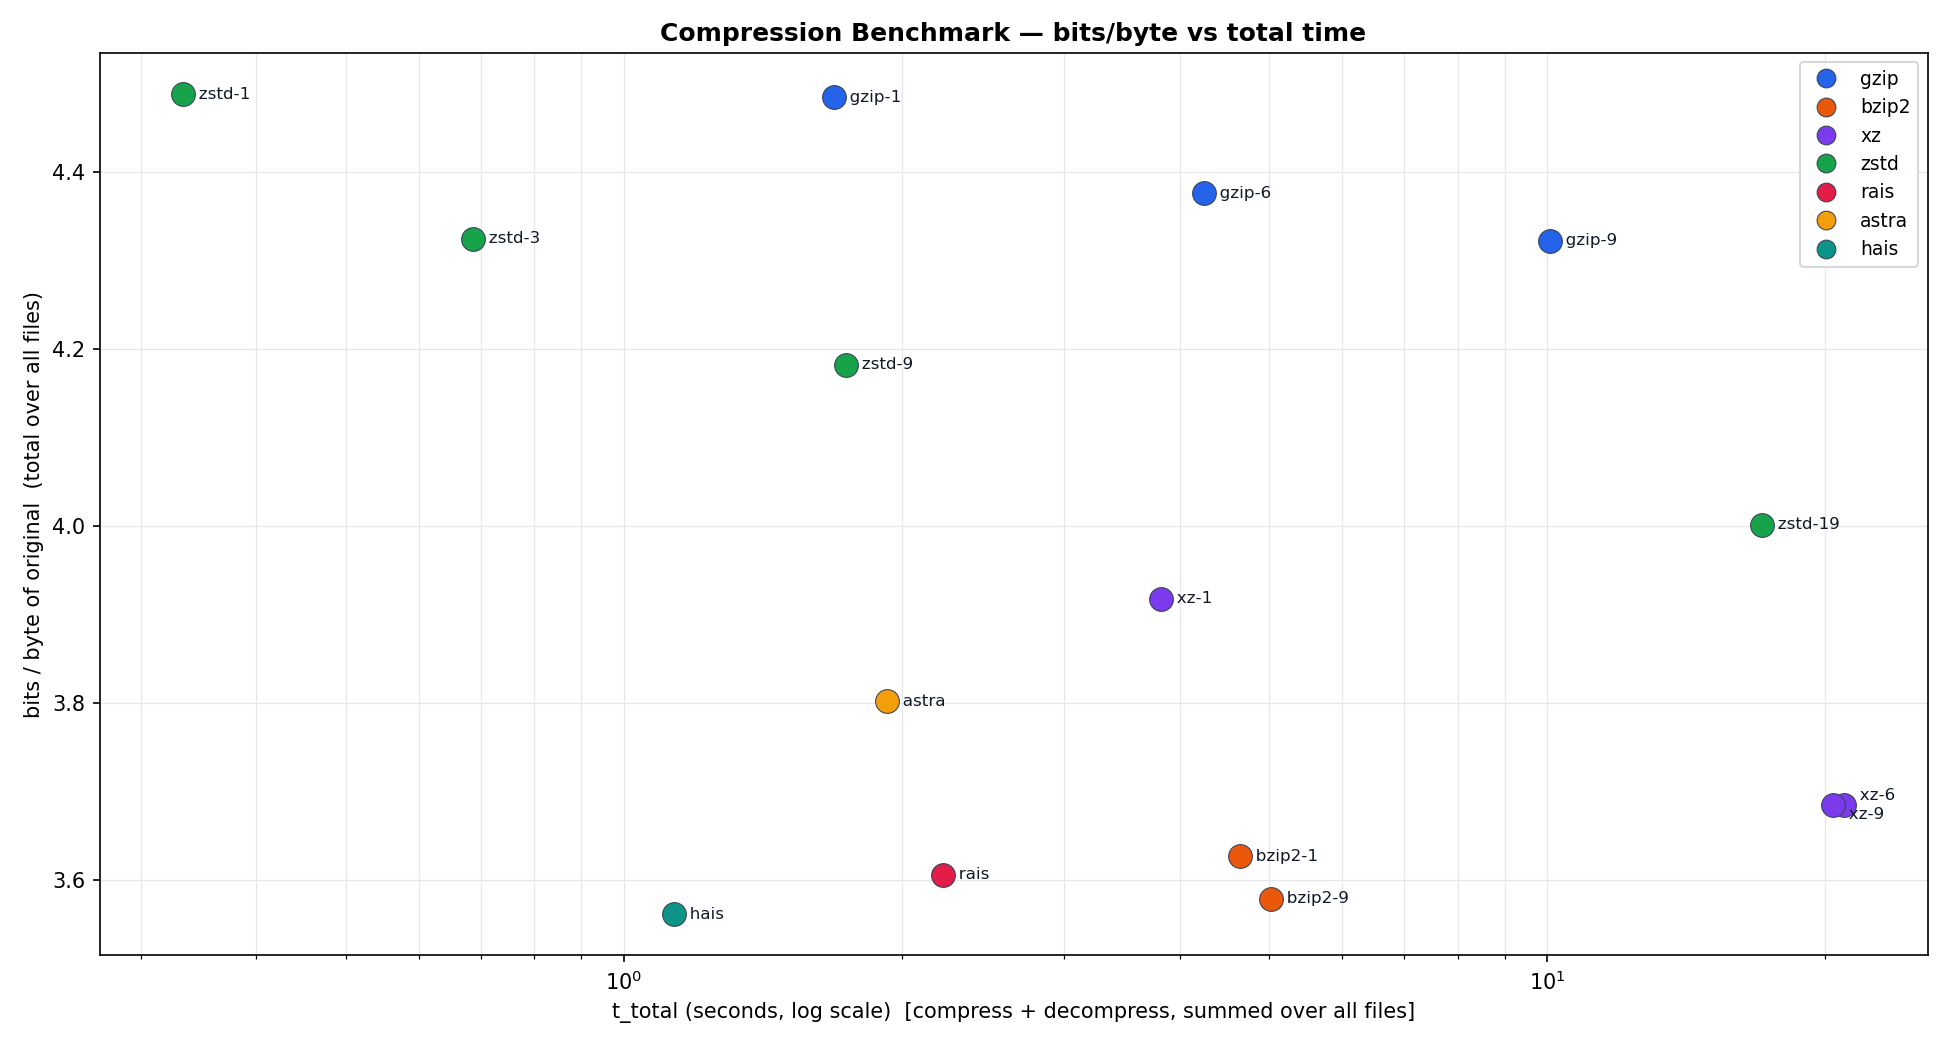
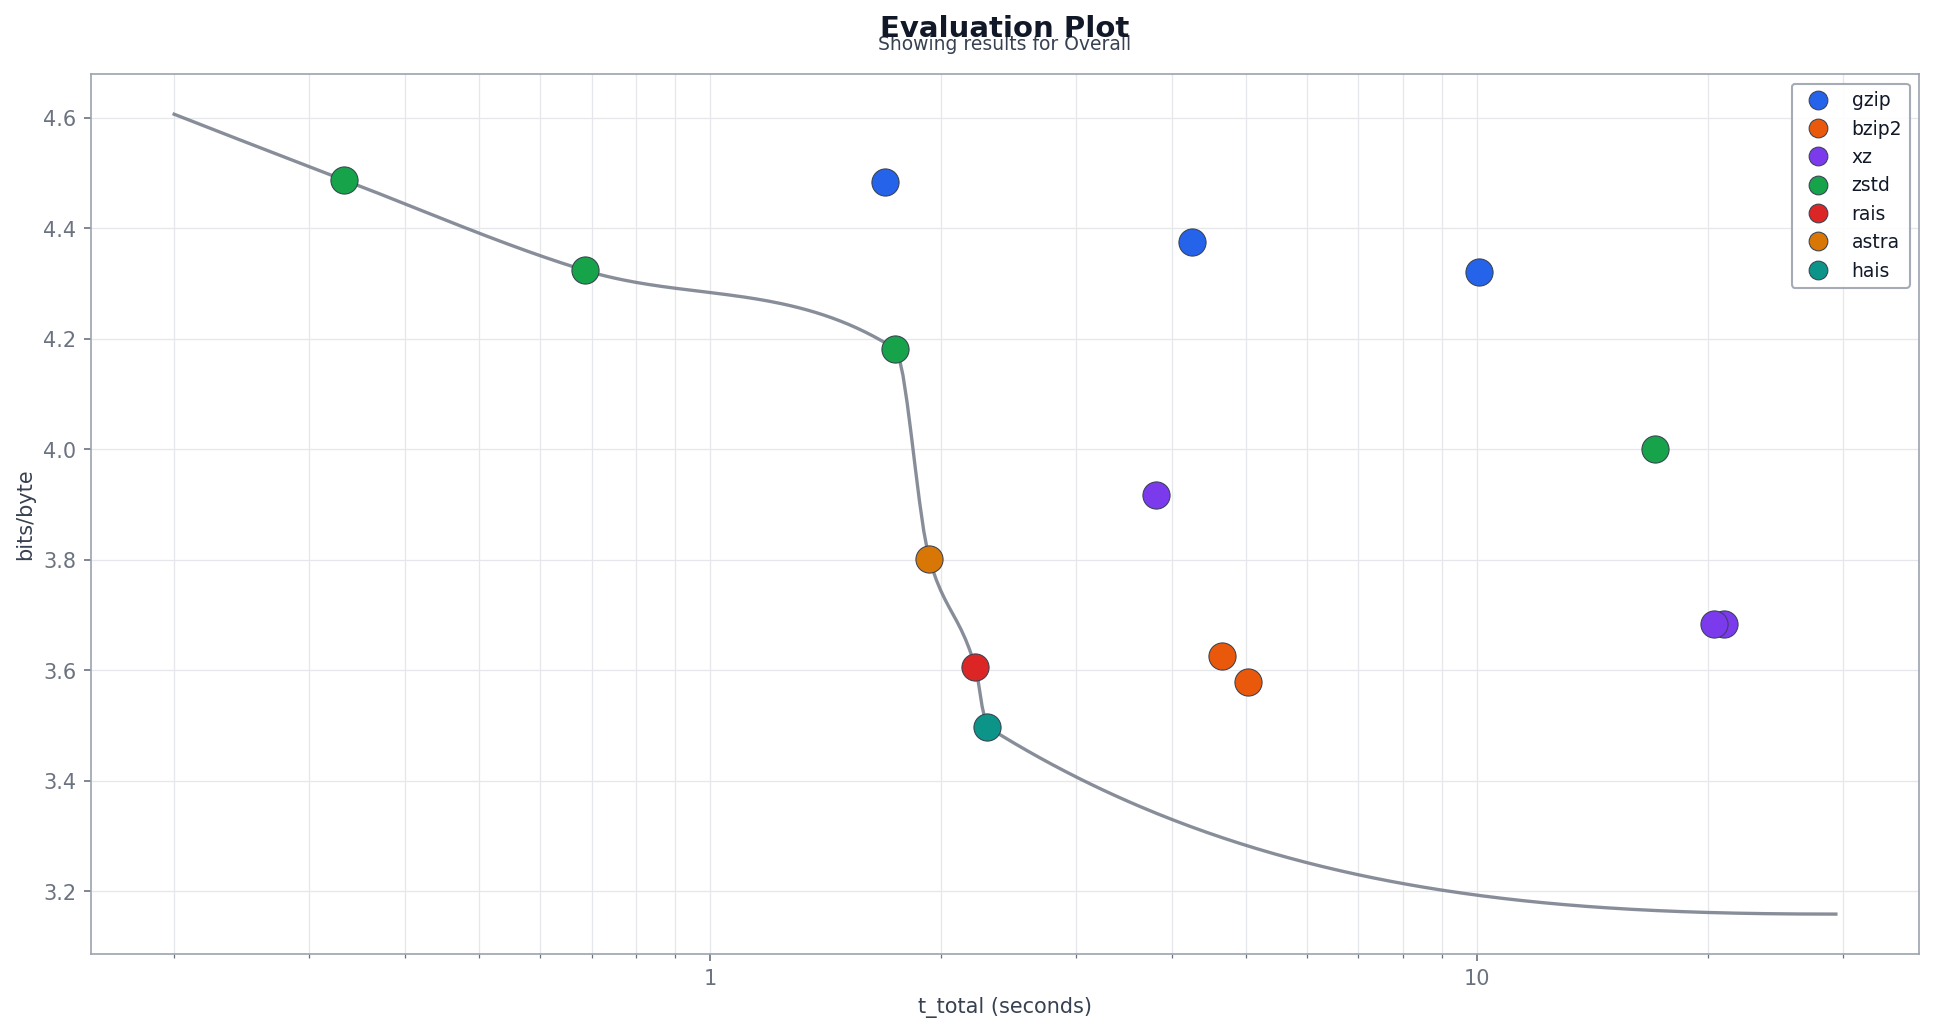
plot updat

diff --git a/benchmark/plot.py b/benchmark/plot.py
@@ -1,32 +1,27 @@
 #!/usr/bin/env python3
 """
-Plot compression benchmark results.
+Plot compression benchmark results — dark theme, Pareto frontier curve.
 
 Usage:
     python plot.py [results.csv]
-
-Produces a scatter plot of bits/byte vs total time (compress + decompress),
-one point per compressor (averaged over all files).
 """
 
 import sys
 import numpy as np
 import pandas as pd
 import matplotlib.pyplot as plt
+import matplotlib.ticker as ticker
+from scipy.interpolate import PchipInterpolator
 
 CSV = sys.argv[1] if len(sys.argv) > 1 else "results.csv"
 
 df = pd.read_csv(CSV)
 df = df[df["lossless"] == True].copy()
-
 df["t_total_s"] = (df["compress_ms"] + df["decompress_ms"]) / 1000.0
 
 agg = (
     df.groupby("compressor")
-    .agg(
-        bits_per_byte=("bpp", "mean"),
-        t_total_s=("t_total_s", "sum"),
-    )
+    .agg(bits_per_byte=("bpp", "mean"), t_total_s=("t_total_s", "sum"))
     .reset_index()
 )
 
@@ -35,8 +30,8 @@ FAMILY_COLORS = {
     "bzip2": "#ea580c",
     "xz":    "#7c3aed",
     "zstd":  "#16a34a",
-    "rais":  "#e11d48",
-    "astra": "#f59e0b",
+    "rais":  "#dc2626",
+    "astra": "#d97706",
     "hais":  "#0d9488",
 }
 
@@ -47,91 +42,114 @@ def family(name):
     return "other"
 
 agg["family"] = agg["compressor"].apply(family)
-agg["color"]  = agg["family"].map(FAMILY_COLORS).fillna("#6b7280")
+agg["color"]  = agg["family"].map(FAMILY_COLORS).fillna("#9ca3af")
 
 # ---------------------------------------------------------------------------
-# Plot
+# Pareto frontier (lower-left envelope: best bpp for each time budget)
 # ---------------------------------------------------------------------------
+pts = agg[["t_total_s", "bits_per_byte"]].values
+sorted_idx = np.argsort(pts[:, 0])
+sorted_pts = pts[sorted_idx]
+pareto = [sorted_pts[0]]
+for p in sorted_pts[1:]:
+    if p[1] < pareto[-1][1]:
+        pareto.append(p)
+pareto = np.array(pareto)
+
+# ---------------------------------------------------------------------------
+# Light theme
+# ---------------------------------------------------------------------------
+BG    = "white"
+GRID  = "#e5e7eb"
+EDGE  = "#9ca3af"
+LABEL = "#374151"
+TICK  = "#6b7280"
+
+plt.rcParams.update({
+    "figure.facecolor": BG,
+    "axes.facecolor":   BG,
+    "text.color":       "#111827",
+    "axes.labelcolor":  LABEL,
+    "xtick.color":      TICK,
+    "ytick.color":      TICK,
+    "axes.edgecolor":   EDGE,
+    "grid.color":       GRID,
+    "grid.linewidth":   0.6,
+})
 
 fig, ax = plt.subplots(figsize=(13, 7))
-
-ax.grid(True, color="#e5e7eb", linewidth=0.6, which="both", zorder=0)
-ax.set_facecolor("white")
-fig.patch.set_facecolor("white")
+ax.grid(True, which="both", zorder=0)
 ax.set_axisbelow(True)
 
-# Scatter + labels
-# Place each label at a small fixed offset in axis-fraction space, then
-# iteratively push overlapping labels apart — no connector lines drawn.
+# ---------------------------------------------------------------------------
+# Pareto curve — smooth monotone spline in log-log space (PchipInterpolator)
+# ---------------------------------------------------------------------------
+if len(pareto) >= 2:
+    x_all = agg["t_total_s"].values
+    x_min = min(x_all) * 0.6
+    x_max = max(x_all) * 1.4
+
+    log_x_p   = np.log10(pareto[:, 0])
+    log_bpp_p = np.log10(pareto[:, 1])
+
+    # Pad boundary points so the curve extends across the full data range
+    # Left pad: extrapolate slope; right pad: gentle slope continuing down
+    slope_l = (log_bpp_p[1]  - log_bpp_p[0])  / (log_x_p[1]  - log_x_p[0])  if len(pareto) > 1 else -0.1
+    slope_r = -0.04  # gentle right tail — no compressor beats the last pareto point significantly
+
+    lx_l = np.log10(x_min);  lbpp_l = log_bpp_p[0]  + slope_l * (lx_l - log_x_p[0])
+    lx_r = np.log10(x_max);  lbpp_r = log_bpp_p[-1] + slope_r * (lx_r - log_x_p[-1])
+
+    log_x_ext   = np.concatenate([[lx_l],   log_x_p,   [lx_r]])
+    log_bpp_ext = np.concatenate([[lbpp_l], log_bpp_p, [lbpp_r]])
+
+    interp   = PchipInterpolator(log_x_ext, log_bpp_ext)
+    x_smooth = np.logspace(np.log10(x_min), np.log10(x_max), 400)
+    y_smooth = 10.0 ** interp(np.log10(x_smooth))
+    ax.plot(x_smooth, y_smooth, color="#6b7280", linewidth=1.6, alpha=0.8, zorder=2)
+
+# ---------------------------------------------------------------------------
+# Scatter points
+# ---------------------------------------------------------------------------
 for _, row in agg.iterrows():
     ax.scatter(
         row["t_total_s"], row["bits_per_byte"],
-        color=row["color"], s=130, zorder=3,
+        color=row["color"], s=170, zorder=4,
         edgecolors="#374151", linewidths=0.5,
     )
 
-texts = []
-for _, row in agg.iterrows():
-    t = ax.text(
-        row["t_total_s"], row["bits_per_byte"],
-        "   " + row["compressor"],
-        fontsize=8, color="#111827",
-        va="center", ha="left",
-    )
-    texts.append(t)
-
-# Simple repulsion loop — nudge overlapping labels apart (no arrows)
-fig.canvas.draw()
-renderer = fig.canvas.get_renderer()
-
-def get_box(t):
-    return t.get_window_extent(renderer=renderer)
-
-MAX_ITER = 60
-for _ in range(MAX_ITER):
-    moved = False
-    for i, ti in enumerate(texts):
-        bi = get_box(ti)
-        for j, tj in enumerate(texts):
-            if i == j:
-                continue
-            bj = get_box(tj)
-            # overlap in both axes?
-            ox = min(bi.x1, bj.x1) - max(bi.x0, bj.x0)
-            oy = min(bi.y1, bj.y1) - max(bi.y0, bj.y0)
-            if ox > 0 and oy > 0:
-                # push vertically
-                dy = (oy + 1) / 2
-                xi, yi = ti.get_position()
-                xj, yj = tj.get_position()
-                # convert dy pixels to data coords
-                inv = ax.transData.inverted()
-                p0 = inv.transform((0, 0))
-                p1 = inv.transform((0, dy))
-                delta = abs(p1[1] - p0[1])
-                ti.set_position((xi, yi + delta))
-                tj.set_position((xj, yj - delta))
-                moved = True
-    if not moved:
-        break
-
+# ---------------------------------------------------------------------------
 # Legend
+# ---------------------------------------------------------------------------
 handles = [
-    plt.Line2D([0], [0], marker="o", color="w", markerfacecolor=col,
-               markeredgecolor="#374151", markeredgewidth=0.5,
-               markersize=9, label=fam, linewidth=0)
+    plt.Line2D([0], [0], marker="o", color="w",
+               markerfacecolor=col, markeredgecolor="#374151",
+               markeredgewidth=0.5, markersize=9,
+               label=fam, linewidth=0)
     for fam, col in FAMILY_COLORS.items()
 ]
 ax.legend(handles=handles, fontsize=9, loc="upper right",
-          framealpha=0.9, edgecolor="#d1d5db")
+          framealpha=0.9, edgecolor=EDGE, facecolor="white",
+          labelcolor="#111827")
 
+# ---------------------------------------------------------------------------
+# Axes
+# ---------------------------------------------------------------------------
 ax.set_xscale("log")
-ax.set_xlabel("t_total (seconds, log scale)  [compress + decompress, summed over all files]", fontsize=10)
-ax.set_ylabel("bits / byte of original  (total over all files)", fontsize=10)
-ax.set_title("Compression Benchmark — bits/byte vs total time", fontsize=12, fontweight="bold")
+ax.set_xlabel("t_total (seconds)", fontsize=10)
+ax.set_ylabel("bits/byte", fontsize=10)
+
+ax.xaxis.set_major_formatter(ticker.FuncFormatter(
+    lambda v, _: f"{v:g}"
+))
+
+ax.set_title("Evaluation Plot", fontsize=14, fontweight="bold",
+             color="#111827", pad=18)
+ax.text(0.5, 1.028, "Showing results for Overall",
+        transform=ax.transAxes, ha="center", fontsize=9, color=LABEL)
 
 plt.tight_layout()
 out = CSV.replace(".csv", "_plot.png")
-plt.savefig(out, dpi=150, facecolor="white")
+plt.savefig(out, dpi=150, bbox_inches="tight", facecolor=BG)
 print(f"Saved: {out}")
 plt.show()

diff --git a/hais/README.md b/hais/README.md
@@ -17,7 +17,7 @@ O nome dos ficheiros do paper segue a convenção `u16be-1x[rows]x[cols]`, pelo 
 
 ## Estratégia
 
-A imagem é dividida em blocos de `150 × 150` pixels. Cada bloco é comprimido de forma independente e em paralelo (`std::thread`).
+A imagem é dividida em blocos de `150 × 150` pixels. Cada bloco é comprimido de forma independente e em paralelo (`std::thread`). A descompressão é também paralela — o ficheiro é lido integralmente para memória, os offsets dos blocos são determinados numa passagem sequencial, e os blocos são descomprimidos em paralelo.
 
 ### Seleção de modo por bloco
 
@@ -26,22 +26,20 @@ Para cada bloco, o compressor testa 3 modos e escolhe o que minimiza o `byte_cos
 | Modo | Preditor | Quando é escolhido |
 |------|----------|--------------------|
 | 0 — raw | nenhum | blocos com ruído puro, sem correlação espacial |
-| 1 — MED | Median Edge Detector (LOCO-I) | blocos com arestas ou gradientes lineares |
-| 2 — avg | média de 3 vizinhos causais | blocos planos com ruído residual de leitura |
+| 1 — avg | média de 3 vizinhos causais | blocos planos com ruído residual de leitura |
+| 2 — LS  | regressão linear por bloco | blocos com gradientes suaves e estrutura linear |
 
-O critério de seleção é `byte_cost = H(hi8) + H(lo8)`, que mede diretamente o custo dos dois streams que o encoder vai pagar, em vez de calcular entropia sobre os 65536 símbolos possíveis.
-
-O modo raw vence quando qualquer preditor só introduz resíduos piores que os pixels originais. O avg vence em regiões planas porque a média de três vizinhos amortece o ruído, enquanto o MED pode amplificá-lo. O MED vence onde há estrutura espacial clara com arestas.
+O critério de seleção é `byte_cost = H(hi8) + H(lo8)`, que mede diretamente o custo dos dois streams que o encoder vai pagar. O modo LS tem um overhead de 12 bytes (3 pesos float32) contabilizado no custo antes da comparação.
 
 ### Preditores
 
 Os vizinhos causais são `A` (esquerda), `B` (cima) e `C` (diagonal cima-esquerda) — todos já reconstruídos no momento da previsão.
 
-**MED** (Median Edge Detector): preditor não-linear que devolve `min(A,B)` se `C >= max(A,B)`, `max(A,B)` se `C <= min(A,B)`, e `A+B−C` caso contrário. Detecta arestas e extrapola gradientes lineares com precisão. O resultado está sempre em `[min(A,B), max(A,B)]`, sem necessidade de clamping.
+**avg**: calcula `(A + B + C + 1) / 3`. Amortece o ruído de leitura em regiões planas, onde preditores extrapolativos amplificam pequenas flutuações.
 
-**avg**: calcula `(A + B + C + 1) / 3`. Amortece o ruído de leitura em regiões planas, onde a extrapolação do MED pode amplificar pequenas flutuações.
+**LS** (Least Squares per block): resolve localmente `min_w Σ(pixel − w·[A, B, C])²` usando todos os pixels interiores do bloco. Os pesos ótimos `w` são guardados no bitstream (3 × float32 = 12 bytes por bloco). O decoder lê os pesos e aplica a mesma predição linear, reproduzindo os resíduos exatos. Não requer fase de treino — os pesos adaptam-se às características locais de cada bloco.
 
-O modo é gravado em 1 byte antes dos streams do bloco. O descompressor usa o mesmo preditor para reconstruir o pixel exato.
+O modo é gravado em 1 byte antes dos streams do bloco.
 
 ### Codificação entrópica: FSE/tANS
 
@@ -61,25 +59,25 @@ O caso uniforme evita guardar 1024 bytes de tabela quando a distribuição é pr
 
 ## Formato do ficheiro
 
-Cabeçalho: magic `HAIS` (4B), width (4B), height (4B), block_size (4B). Para cada bloco em ordem row-major: mode (1B), stream hi8 (table_flag + table_data + stream_size:8B + bits), stream lo8 (mesmo formato). Todos os inteiros multibyte são little-endian.
+Cabeçalho: magic `HAIS` (4B), width (4B), height (4B), block_size (4B). Para cada bloco em ordem row-major: mode (1B), e para o modo LS os 3 pesos float32 (12B), depois stream hi8 e stream lo8 (cada um com table_flag + table_data + stream_size:8B + bits). Todos os inteiros multibyte são little-endian.
 
 ## Paralelismo
 
-A compressão é paralela: um contador atómico distribui índices de blocos pelas threads disponíveis (`hardware_concurrency()`). A escrita final é sequencial para manter a ordem dos blocos. A descompressão é sequencial.
+A compressão é paralela: um contador atómico distribui índices de blocos pelas threads disponíveis (`hardware_concurrency()`). A descompressão é também paralela: o ficheiro é lido para memória, os offsets de cada bloco são determinados sequencialmente, e os blocos são descomprimidos em paralelo com o mesmo mecanismo. A escrita final é sequencial para manter a ordem dos blocos.
 
 ## Diferenças face a abordagens existentes
 
 O HAIS combina um conjunto de decisões de design que, individualmente, existem em outros sistemas, mas cuja combinação específica não existe em nenhuma solução publicada.
 
-**Face ao JPEG-LS / LOCO-I:** o JPEG-LS usa o preditor MED com um codificador Golomb-Rice de parâmetro adaptativo. O HAIS usa o mesmo MED mas substitui o Golomb-Rice por FSE/tANS, que se adapta melhor a distribuições não-geométricas, e adiciona o modo avg como alternativa por bloco.
+**Face ao JPEG-LS / LOCO-I:** o JPEG-LS usa o preditor MED com um codificador Golomb-Rice de parâmetro adaptativo. O HAIS não usa MED — usa avg e LS — e substitui o Golomb-Rice por FSE/tANS.
 
-**Face ao Quintas-Torra 2026:** o paper usa preditores lineares ponderados (2×2, 9×9, ou treinados por dataset) com um codificador aritmético binário contextual (CCSDS 123.0-B-2). O HAIS usa preditores não-lineares (MED) e uma média simples (avg), sem fase de treino, com FSE/tANS. A seleção do preditor é feita por bloco em vez de ser global para toda a imagem.
+**Face ao Quintas-Torra 2026:** o paper usa preditores lineares ponderados treinados globalmente por dataset (2×2, 9×9, ou otimizados). O HAIS resolve o LS localmente por bloco, sem fase de treino — os pesos são derivados do próprio bloco e guardados no bitstream. A seleção do preditor é feita por bloco com critério byte_cost, não globalmente.
 
-**Face ao zstd / compressores genéricos:** os compressores genéricos não exploram a estrutura espacial 2D da imagem. O HAIS aplica preditores causais que removem redundância espacial antes da codificação entrópica, reduzindo a entropia dos resíduos face aos pixels brutos.
+**Face ao zstd / compressores genéricos:** os compressores genéricos não exploram a estrutura espacial 2D da imagem. O HAIS aplica preditores causais que removem redundância espacial antes da codificação entrópica.
 
 **O que é próprio desta implementação:**
-- Seleção automática de modo por bloco com critério `byte_cost = H(hi8) + H(lo8)`, mais preciso que entropia sobre 16 bits
-- Split hi8/lo8: os dois bytes do símbolo de 16 bits são comprimidos em streams independentes, cada um com a sua tabela FSE adaptada à sua distribuição
+- Seleção automática de modo por bloco com critério `byte_cost = H(hi8) + H(lo8)`
+- LS per-block sem treino: pesos ótimos locais derivados de cada bloco, guardados no bitstream
+- Split hi8/lo8: streams independentes com tabelas FSE adaptadas à sua distribuição
 - FSE/tANS implementado de raiz em C++, sem bibliotecas externas
-- Paralelismo por bloco com contador atómico (`std::thread`)
-- Três modos competitivos (raw / MED / avg) onde nenhum domina globalmente — a escolha depende das características locais de cada bloco
+- Paralelismo em compressão e descompressão com contador atómico (`std::thread`)
